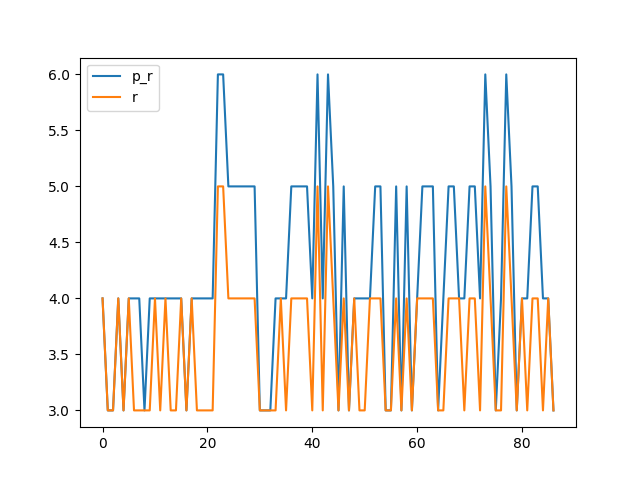
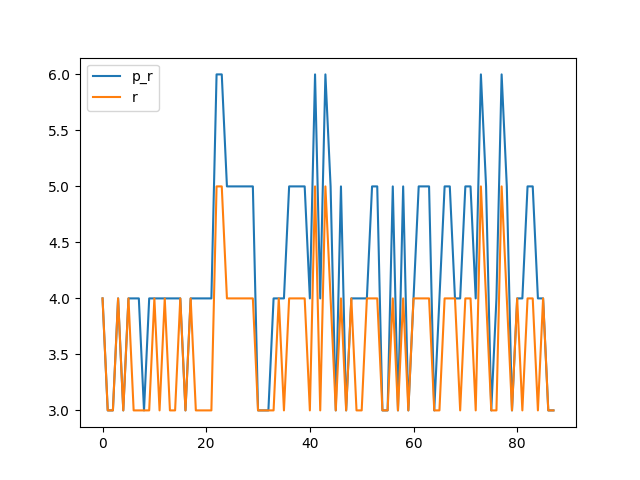
0x0057

diff --git a/benchmark.md b/benchmark.md
@@ -172,16 +172,18 @@ Synthesising 0x0055 pexact:182 r=4 exact:192 r=4
 
 Synthesising 0x0056 pexact:224 r=3 exact:224 r=3
 
+Synthesising 0x0057 pexact:216 r=3 exact:216 r=3
+
 ```mermaid
 xychart-beta
     title "Comparison powertwoexact twoexact"
-    x-axis [0, 1, 2, 3, 4, 5, 6, 7, 8, 9, 10, 11, 12, 13, 14, 15, 16, 17, 18, 19, 20, 21, 22, 23, 24, 25, 26, 27, 28, 29, 30, 31, 32, 33, 34, 35, 36, 37, 38, 39, 40, 41, 42, 43, 44, 45, 46, 47, 48, 49, 50, 51, 52, 53, 54, 55, 56, 57, 58, 59, 60, 61, 62, 63, 64, 65, 66, 67, 68, 69, 70, 71, 72, 73, 74, 75, 76, 77, 78, 79, 80, 81, 82, 83, 84, 85, 86]
+    x-axis [0, 1, 2, 3, 4, 5, 6, 7, 8, 9, 10, 11, 12, 13, 14, 15, 16, 17, 18, 19, 20, 21, 22, 23, 24, 25, 26, 27, 28, 29, 30, 31, 32, 33, 34, 35, 36, 37, 38, 39, 40, 41, 42, 43, 44, 45, 46, 47, 48, 49, 50, 51, 52, 53, 54, 55, 56, 57, 58, 59, 60, 61, 62, 63, 64, 65, 66, 67, 68, 69, 70, 71, 72, 73, 74, 75, 76, 77, 78, 79, 80, 81, 82, 83, 84, 85, 86, 87]
     y-axis "Switching Activity" 0-->472
-    line [96, 152, 152, 182, 152, 182, 208, 182, 152, 208, 182, 182, 182, 182, 182, 182, 152, 182, 208, 182, 208, 182, 406, 400, 336, 310, 310, 304, 310, 304, 224, 216, 152, 208, 182, 182, 336, 310, 310, 304, 208, 406, 182, 400, 310, 224, 304, 216, 182, 182, 182, 182, 310, 304, 224, 216, 310, 224, 304, 216, 280, 326, 326, 238, 152, 208, 336, 310, 182, 182, 310, 304, 208, 406, 310, 224, 182, 400, 304, 216, 182, 182, 310, 304, 182, 182, 224]
-    line [192, 152, 152, 312, 152, 352, 224, 192, 192, 224, 352, 216, 320, 216, 216, 352, 152, 326, 224, 216, 224, 192, 464, 448, 352, 344, 344, 320, 336, 352, 224, 216, 192, 224, 318, 192, 352, 344, 344, 312, 224, 448, 192, 440, 344, 224, 312, 216, 320, 216, 216, 280, 344, 312, 224, 216, 344, 224, 320, 216, 344, 336, 344, 288, 152, 224, 352, 336, 320, 192, 344, 320, 224, 472, 336, 224, 192, 448, 312, 216, 248, 192, 320, 352, 216, 192, 224]
-    line [241.7471264367816, 241.7471264367816, 241.7471264367816, 241.7471264367816, 241.7471264367816, 241.7471264367816, 241.7471264367816, 241.7471264367816, 241.7471264367816, 241.7471264367816, 241.7471264367816, 241.7471264367816, 241.7471264367816, 241.7471264367816, 241.7471264367816, 241.7471264367816, 241.7471264367816, 241.7471264367816, 241.7471264367816, 241.7471264367816, 241.7471264367816, 241.7471264367816, 241.7471264367816, 241.7471264367816, 241.7471264367816, 241.7471264367816, 241.7471264367816, 241.7471264367816, 241.7471264367816, 241.7471264367816, 241.7471264367816, 241.7471264367816, 241.7471264367816, 241.7471264367816, 241.7471264367816, 241.7471264367816, 241.7471264367816, 241.7471264367816, 241.7471264367816, 241.7471264367816, 241.7471264367816, 241.7471264367816, 241.7471264367816, 241.7471264367816, 241.7471264367816, 241.7471264367816, 241.7471264367816, 241.7471264367816, 241.7471264367816, 241.7471264367816, 241.7471264367816, 241.7471264367816, 241.7471264367816, 241.7471264367816, 241.7471264367816, 241.7471264367816, 241.7471264367816, 241.7471264367816, 241.7471264367816, 241.7471264367816, 241.7471264367816, 241.7471264367816, 241.7471264367816, 241.7471264367816, 241.7471264367816, 241.7471264367816, 241.7471264367816, 241.7471264367816, 241.7471264367816, 241.7471264367816, 241.7471264367816, 241.7471264367816, 241.7471264367816, 241.7471264367816, 241.7471264367816, 241.7471264367816, 241.7471264367816, 241.7471264367816, 241.7471264367816, 241.7471264367816, 241.7471264367816, 241.7471264367816, 241.7471264367816, 241.7471264367816, 241.7471264367816, 241.7471264367816, 241.7471264367816]
-    line [277.9310344827586, 277.9310344827586, 277.9310344827586, 277.9310344827586, 277.9310344827586, 277.9310344827586, 277.9310344827586, 277.9310344827586, 277.9310344827586, 277.9310344827586, 277.9310344827586, 277.9310344827586, 277.9310344827586, 277.9310344827586, 277.9310344827586, 277.9310344827586, 277.9310344827586, 277.9310344827586, 277.9310344827586, 277.9310344827586, 277.9310344827586, 277.9310344827586, 277.9310344827586, 277.9310344827586, 277.9310344827586, 277.9310344827586, 277.9310344827586, 277.9310344827586, 277.9310344827586, 277.9310344827586, 277.9310344827586, 277.9310344827586, 277.9310344827586, 277.9310344827586, 277.9310344827586, 277.9310344827586, 277.9310344827586, 277.9310344827586, 277.9310344827586, 277.9310344827586, 277.9310344827586, 277.9310344827586, 277.9310344827586, 277.9310344827586, 277.9310344827586, 277.9310344827586, 277.9310344827586, 277.9310344827586, 277.9310344827586, 277.9310344827586, 277.9310344827586, 277.9310344827586, 277.9310344827586, 277.9310344827586, 277.9310344827586, 277.9310344827586, 277.9310344827586, 277.9310344827586, 277.9310344827586, 277.9310344827586, 277.9310344827586, 277.9310344827586, 277.9310344827586, 277.9310344827586, 277.9310344827586, 277.9310344827586, 277.9310344827586, 277.9310344827586, 277.9310344827586, 277.9310344827586, 277.9310344827586, 277.9310344827586, 277.9310344827586, 277.9310344827586, 277.9310344827586, 277.9310344827586, 277.9310344827586, 277.9310344827586, 277.9310344827586, 277.9310344827586, 277.9310344827586, 277.9310344827586, 277.9310344827586, 277.9310344827586, 277.9310344827586, 277.9310344827586, 277.9310344827586]
-    bar [80, 60, 60, 80, 60, 80, 80, 80, 60, 80, 80, 80, 80, 80, 80, 80, 60, 80, 80, 80, 80, 80, 120, 120, 100, 100, 100, 100, 100, 100, 60, 60, 60, 80, 80, 80, 100, 100, 100, 100, 80, 120, 80, 120, 100, 60, 100, 60, 80, 80, 80, 80, 100, 100, 60, 60, 100, 60, 100, 60, 80, 100, 100, 100, 60, 80, 100, 100, 80, 80, 100, 100, 80, 120, 100, 60, 80, 120, 100, 60, 80, 80, 100, 100, 80, 80, 60]
-    bar [80, 60, 60, 80, 60, 80, 60, 60, 60, 60, 80, 60, 80, 60, 60, 80, 60, 80, 60, 60, 60, 60, 100, 100, 80, 80, 80, 80, 80, 80, 60, 60, 60, 60, 80, 60, 80, 80, 80, 80, 60, 100, 60, 100, 80, 60, 80, 60, 80, 60, 60, 80, 80, 80, 60, 60, 80, 60, 80, 60, 80, 80, 80, 80, 60, 60, 80, 80, 80, 60, 80, 80, 60, 100, 80, 60, 60, 100, 80, 60, 80, 60, 80, 80, 60, 80, 60]
+    line [96, 152, 152, 182, 152, 182, 208, 182, 152, 208, 182, 182, 182, 182, 182, 182, 152, 182, 208, 182, 208, 182, 406, 400, 336, 310, 310, 304, 310, 304, 224, 216, 152, 208, 182, 182, 336, 310, 310, 304, 208, 406, 182, 400, 310, 224, 304, 216, 182, 182, 182, 182, 310, 304, 224, 216, 310, 224, 304, 216, 280, 326, 326, 238, 152, 208, 336, 310, 182, 182, 310, 304, 208, 406, 310, 224, 182, 400, 304, 216, 182, 182, 310, 304, 182, 182, 224, 216]
+    line [192, 152, 152, 312, 152, 352, 224, 192, 192, 224, 352, 216, 320, 216, 216, 352, 152, 326, 224, 216, 224, 192, 464, 448, 352, 344, 344, 320, 336, 352, 224, 216, 192, 224, 318, 192, 352, 344, 344, 312, 224, 448, 192, 440, 344, 224, 312, 216, 320, 216, 216, 280, 344, 312, 224, 216, 344, 224, 320, 216, 344, 336, 344, 288, 152, 224, 352, 336, 320, 192, 344, 320, 224, 472, 336, 224, 192, 448, 312, 216, 248, 192, 320, 352, 216, 192, 224, 216]
+    line [241.45454545454547, 241.45454545454547, 241.45454545454547, 241.45454545454547, 241.45454545454547, 241.45454545454547, 241.45454545454547, 241.45454545454547, 241.45454545454547, 241.45454545454547, 241.45454545454547, 241.45454545454547, 241.45454545454547, 241.45454545454547, 241.45454545454547, 241.45454545454547, 241.45454545454547, 241.45454545454547, 241.45454545454547, 241.45454545454547, 241.45454545454547, 241.45454545454547, 241.45454545454547, 241.45454545454547, 241.45454545454547, 241.45454545454547, 241.45454545454547, 241.45454545454547, 241.45454545454547, 241.45454545454547, 241.45454545454547, 241.45454545454547, 241.45454545454547, 241.45454545454547, 241.45454545454547, 241.45454545454547, 241.45454545454547, 241.45454545454547, 241.45454545454547, 241.45454545454547, 241.45454545454547, 241.45454545454547, 241.45454545454547, 241.45454545454547, 241.45454545454547, 241.45454545454547, 241.45454545454547, 241.45454545454547, 241.45454545454547, 241.45454545454547, 241.45454545454547, 241.45454545454547, 241.45454545454547, 241.45454545454547, 241.45454545454547, 241.45454545454547, 241.45454545454547, 241.45454545454547, 241.45454545454547, 241.45454545454547, 241.45454545454547, 241.45454545454547, 241.45454545454547, 241.45454545454547, 241.45454545454547, 241.45454545454547, 241.45454545454547, 241.45454545454547, 241.45454545454547, 241.45454545454547, 241.45454545454547, 241.45454545454547, 241.45454545454547, 241.45454545454547, 241.45454545454547, 241.45454545454547, 241.45454545454547, 241.45454545454547, 241.45454545454547, 241.45454545454547, 241.45454545454547, 241.45454545454547, 241.45454545454547, 241.45454545454547, 241.45454545454547, 241.45454545454547, 241.45454545454547, 241.45454545454547]
+    line [277.22727272727275, 277.22727272727275, 277.22727272727275, 277.22727272727275, 277.22727272727275, 277.22727272727275, 277.22727272727275, 277.22727272727275, 277.22727272727275, 277.22727272727275, 277.22727272727275, 277.22727272727275, 277.22727272727275, 277.22727272727275, 277.22727272727275, 277.22727272727275, 277.22727272727275, 277.22727272727275, 277.22727272727275, 277.22727272727275, 277.22727272727275, 277.22727272727275, 277.22727272727275, 277.22727272727275, 277.22727272727275, 277.22727272727275, 277.22727272727275, 277.22727272727275, 277.22727272727275, 277.22727272727275, 277.22727272727275, 277.22727272727275, 277.22727272727275, 277.22727272727275, 277.22727272727275, 277.22727272727275, 277.22727272727275, 277.22727272727275, 277.22727272727275, 277.22727272727275, 277.22727272727275, 277.22727272727275, 277.22727272727275, 277.22727272727275, 277.22727272727275, 277.22727272727275, 277.22727272727275, 277.22727272727275, 277.22727272727275, 277.22727272727275, 277.22727272727275, 277.22727272727275, 277.22727272727275, 277.22727272727275, 277.22727272727275, 277.22727272727275, 277.22727272727275, 277.22727272727275, 277.22727272727275, 277.22727272727275, 277.22727272727275, 277.22727272727275, 277.22727272727275, 277.22727272727275, 277.22727272727275, 277.22727272727275, 277.22727272727275, 277.22727272727275, 277.22727272727275, 277.22727272727275, 277.22727272727275, 277.22727272727275, 277.22727272727275, 277.22727272727275, 277.22727272727275, 277.22727272727275, 277.22727272727275, 277.22727272727275, 277.22727272727275, 277.22727272727275, 277.22727272727275, 277.22727272727275, 277.22727272727275, 277.22727272727275, 277.22727272727275, 277.22727272727275, 277.22727272727275, 277.22727272727275]
+    bar [80, 60, 60, 80, 60, 80, 80, 80, 60, 80, 80, 80, 80, 80, 80, 80, 60, 80, 80, 80, 80, 80, 120, 120, 100, 100, 100, 100, 100, 100, 60, 60, 60, 80, 80, 80, 100, 100, 100, 100, 80, 120, 80, 120, 100, 60, 100, 60, 80, 80, 80, 80, 100, 100, 60, 60, 100, 60, 100, 60, 80, 100, 100, 100, 60, 80, 100, 100, 80, 80, 100, 100, 80, 120, 100, 60, 80, 120, 100, 60, 80, 80, 100, 100, 80, 80, 60, 60]
+    bar [80, 60, 60, 80, 60, 80, 60, 60, 60, 60, 80, 60, 80, 60, 60, 80, 60, 80, 60, 60, 60, 60, 100, 100, 80, 80, 80, 80, 80, 80, 60, 60, 60, 60, 80, 60, 80, 80, 80, 80, 60, 100, 60, 100, 80, 60, 80, 60, 80, 60, 60, 80, 80, 80, 60, 60, 80, 60, 80, 60, 80, 80, 80, 80, 60, 60, 80, 80, 80, 60, 80, 80, 60, 100, 80, 60, 60, 100, 80, 60, 80, 60, 80, 80, 60, 80, 60, 60]
 ```
 
